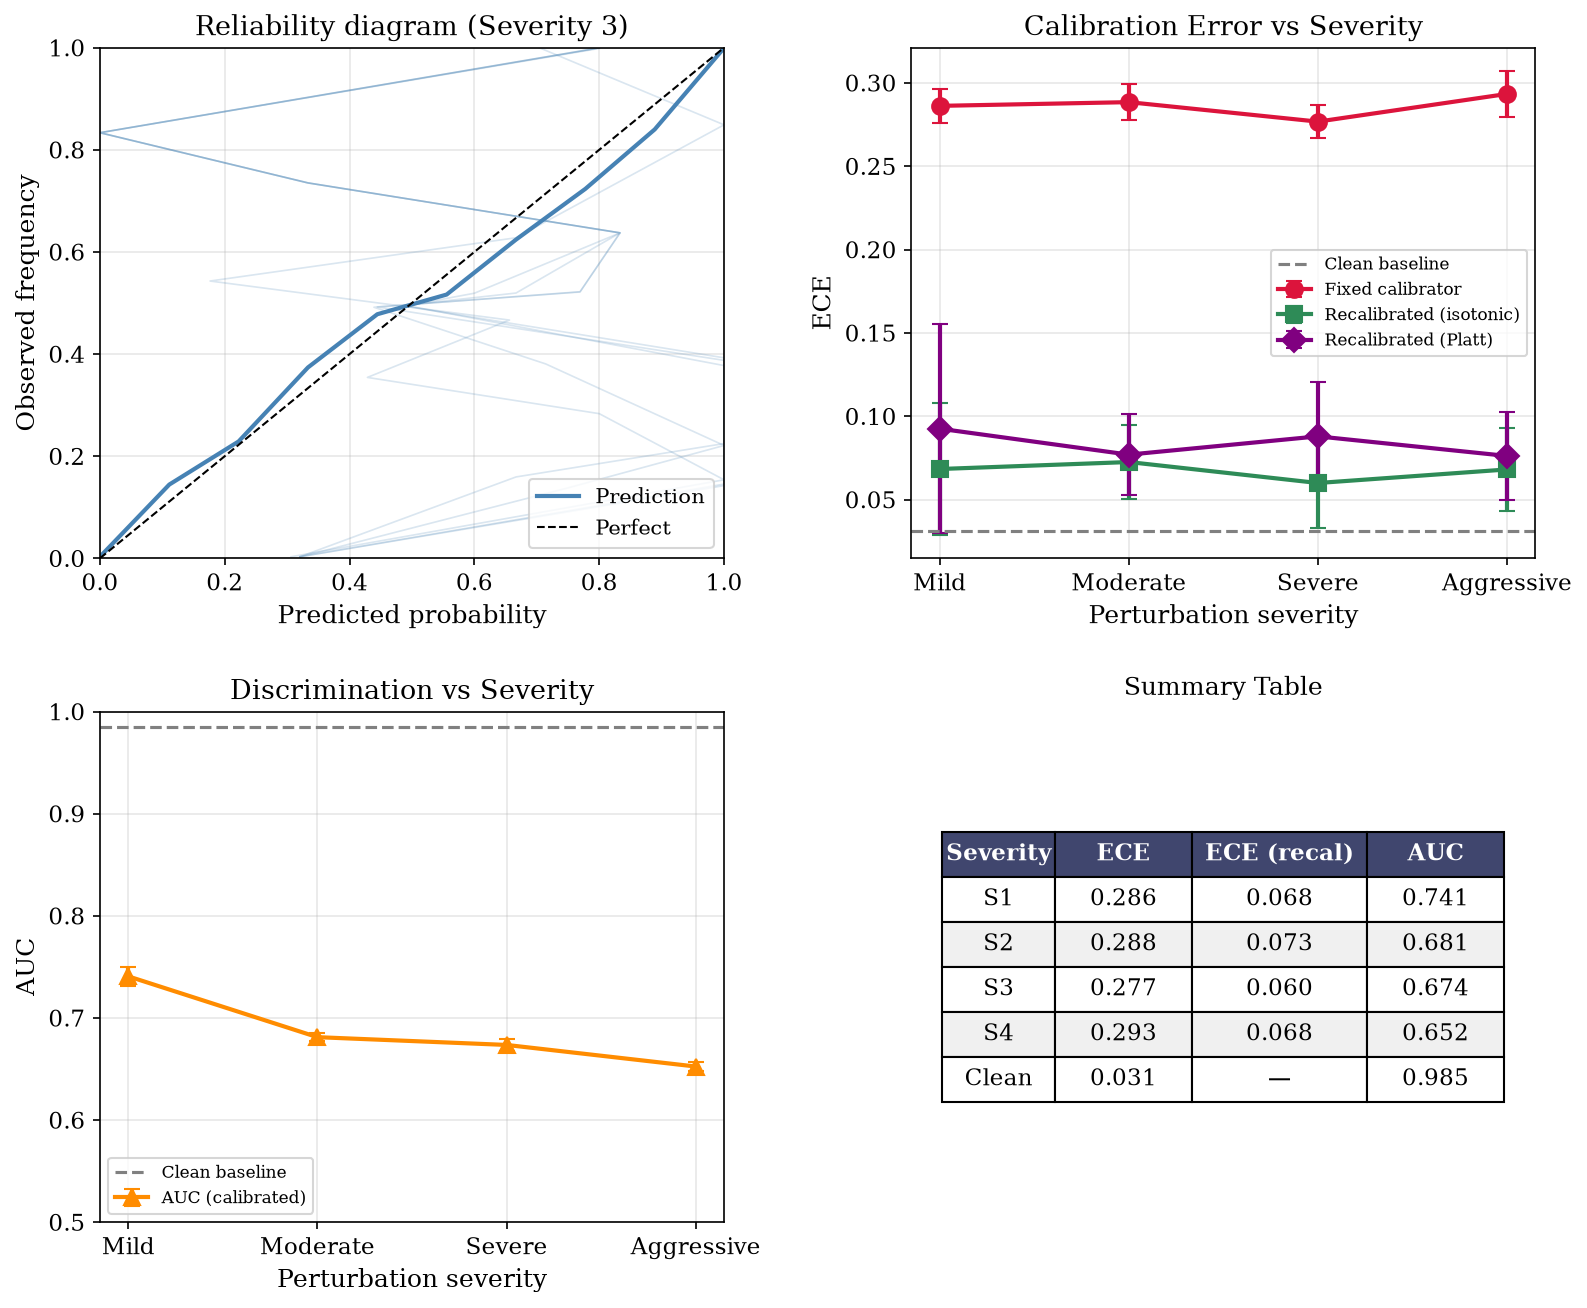
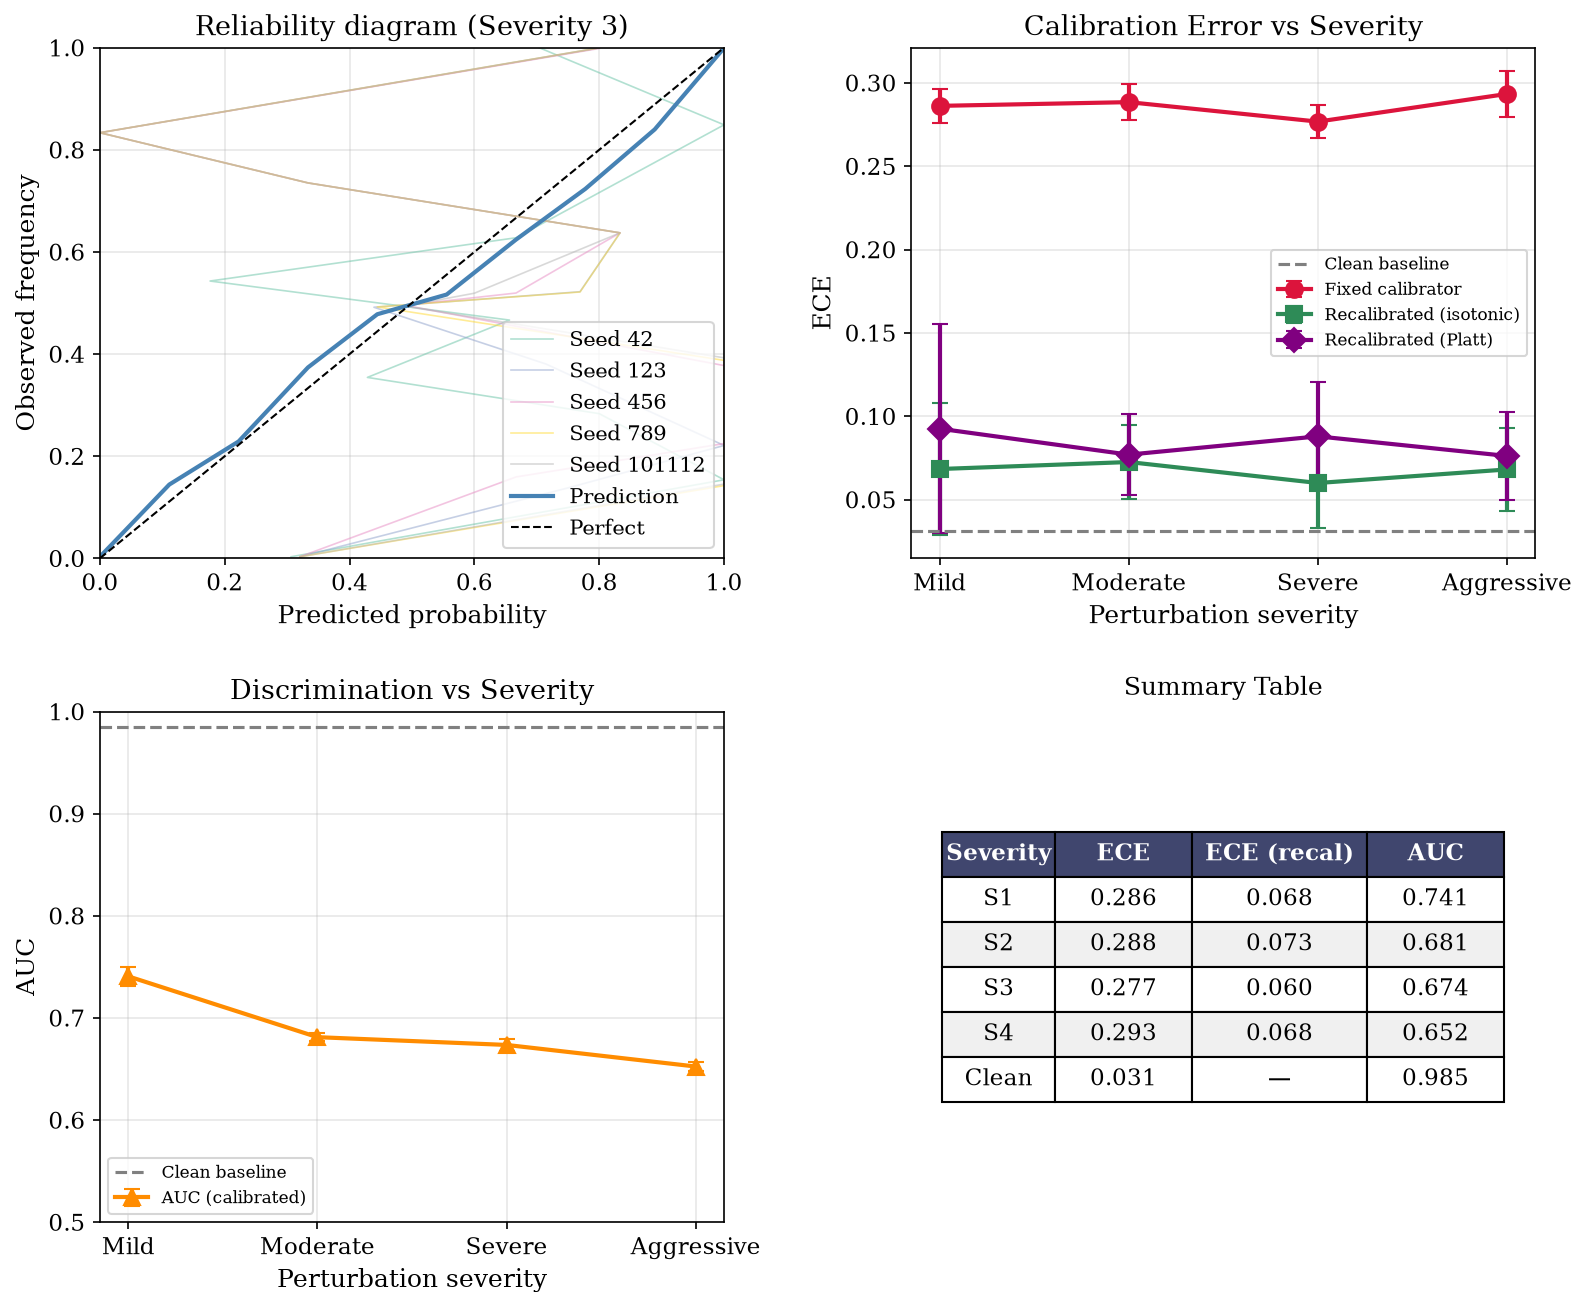
add per-seed colors and legend to reliability diagrams

Changed region(s): [[0.247, 0.2141, 0.4631, 0.4281], [0.1853, 0.3976, 0.247, 0.4281], [0.0618, 0.0917, 0.0926, 0.1223]]

diff --git a/src/plot_robustness.py b/src/plot_robustness.py
@@ -22,6 +22,7 @@ os.makedirs(FIGS_DIR, exist_ok=True)
 FEATURES = ["cycle", "avg_voltage", "min_voltage", "avg_current", "avg_temp", "duration", "SOH"]
 H_LIST = [10, 20, 30, 50]
 SEEDS = [42, 123, 456, 789, 101112]
+SEED_COLORS = plt.cm.Set2(np.linspace(0.05, 0.95, len(SEEDS)))
 PRIMARY_H = 20
 N_BINS = 10
 
@@ -75,7 +76,7 @@ def main():
         all_mpv = []
         seed_data = res_h[res_h.severity == severity]
 
-        for seed_val in SEEDS:
+        for i, seed_val in enumerate(SEEDS):
             syn_path = os.path.join(DATA_DIR, "synthetic", f"nasa_perturbed_s{severity}_s{seed_val}.csv")
             df = pd.read_csv(syn_path)
             df = df.sort_values(["cell", "cycle"]).reset_index(drop=True)
@@ -88,7 +89,8 @@ def main():
             all_fp.append(fp)
             all_mpv.append(mpv)
 
-            ax.plot(fp, mpv, color="steelblue", alpha=0.2, linewidth=0.8)
+            label = f"Seed {seed_val}" if idx == 0 else "_nolegend_"
+            ax.plot(fp, mpv, color=SEED_COLORS[i], alpha=0.5, linewidth=0.8, label=label)
 
         # Mean across seeds
         max_len = max(len(f) for f in all_fp)
@@ -189,7 +191,7 @@ def main():
     # Panel A: Reliability diagram for severity 3 (exemplary)
     ax = fig.add_subplot(gs[0, 0])
     all_fp, all_mpv = [], []
-    for seed_val in SEEDS:
+    for i, seed_val in enumerate(SEEDS):
         syn_path = os.path.join(DATA_DIR, "synthetic", f"nasa_perturbed_s3_s{seed_val}.csv")
         df = pd.read_csv(syn_path)
         df = df.sort_values(["cell", "cycle"]).reset_index(drop=True)
@@ -200,7 +202,7 @@ def main():
         fp, mpv = calibration_curve(y_clean, p_cal, n_bins=N_BINS, strategy="uniform")
         all_fp.append(fp)
         all_mpv.append(mpv)
-        ax.plot(fp, mpv, color="steelblue", alpha=0.2, linewidth=0.8)
+        ax.plot(fp, mpv, color=SEED_COLORS[i], alpha=0.5, linewidth=0.8, label=f"Seed {seed_val}")
     max_len = max(len(f) for f in all_fp)
     fp_interp = np.linspace(0, 1, max_len)
     mpv_interp = np.zeros(max_len)
